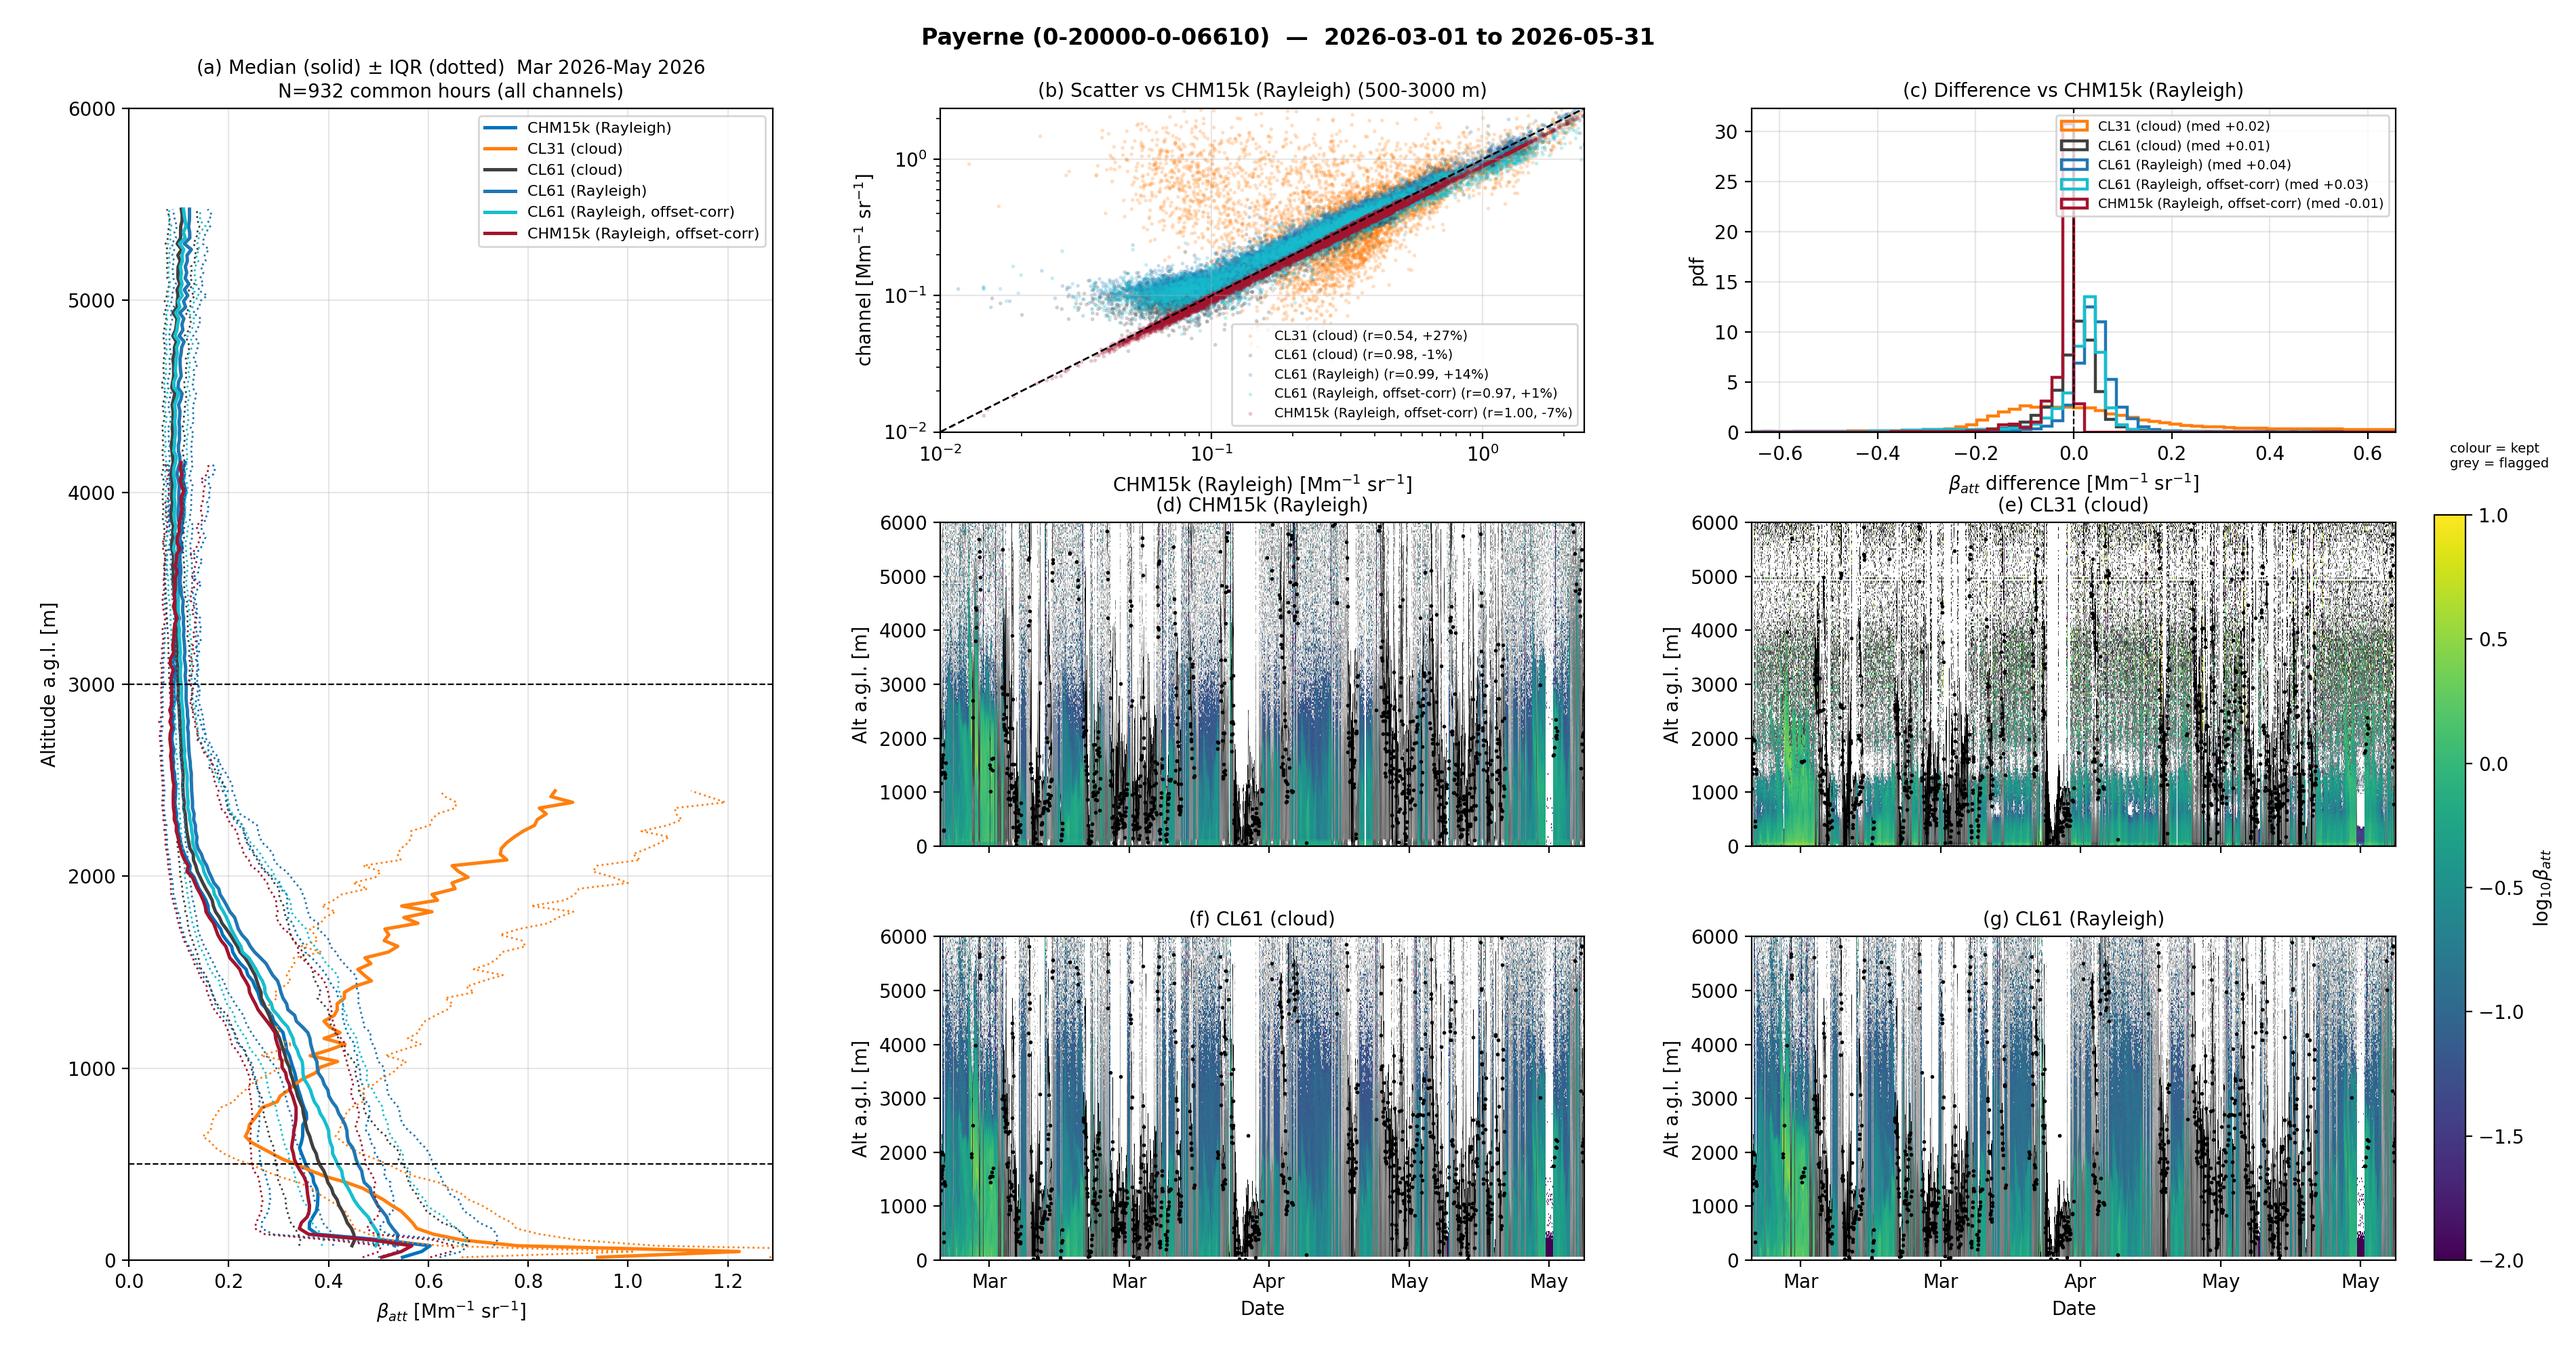
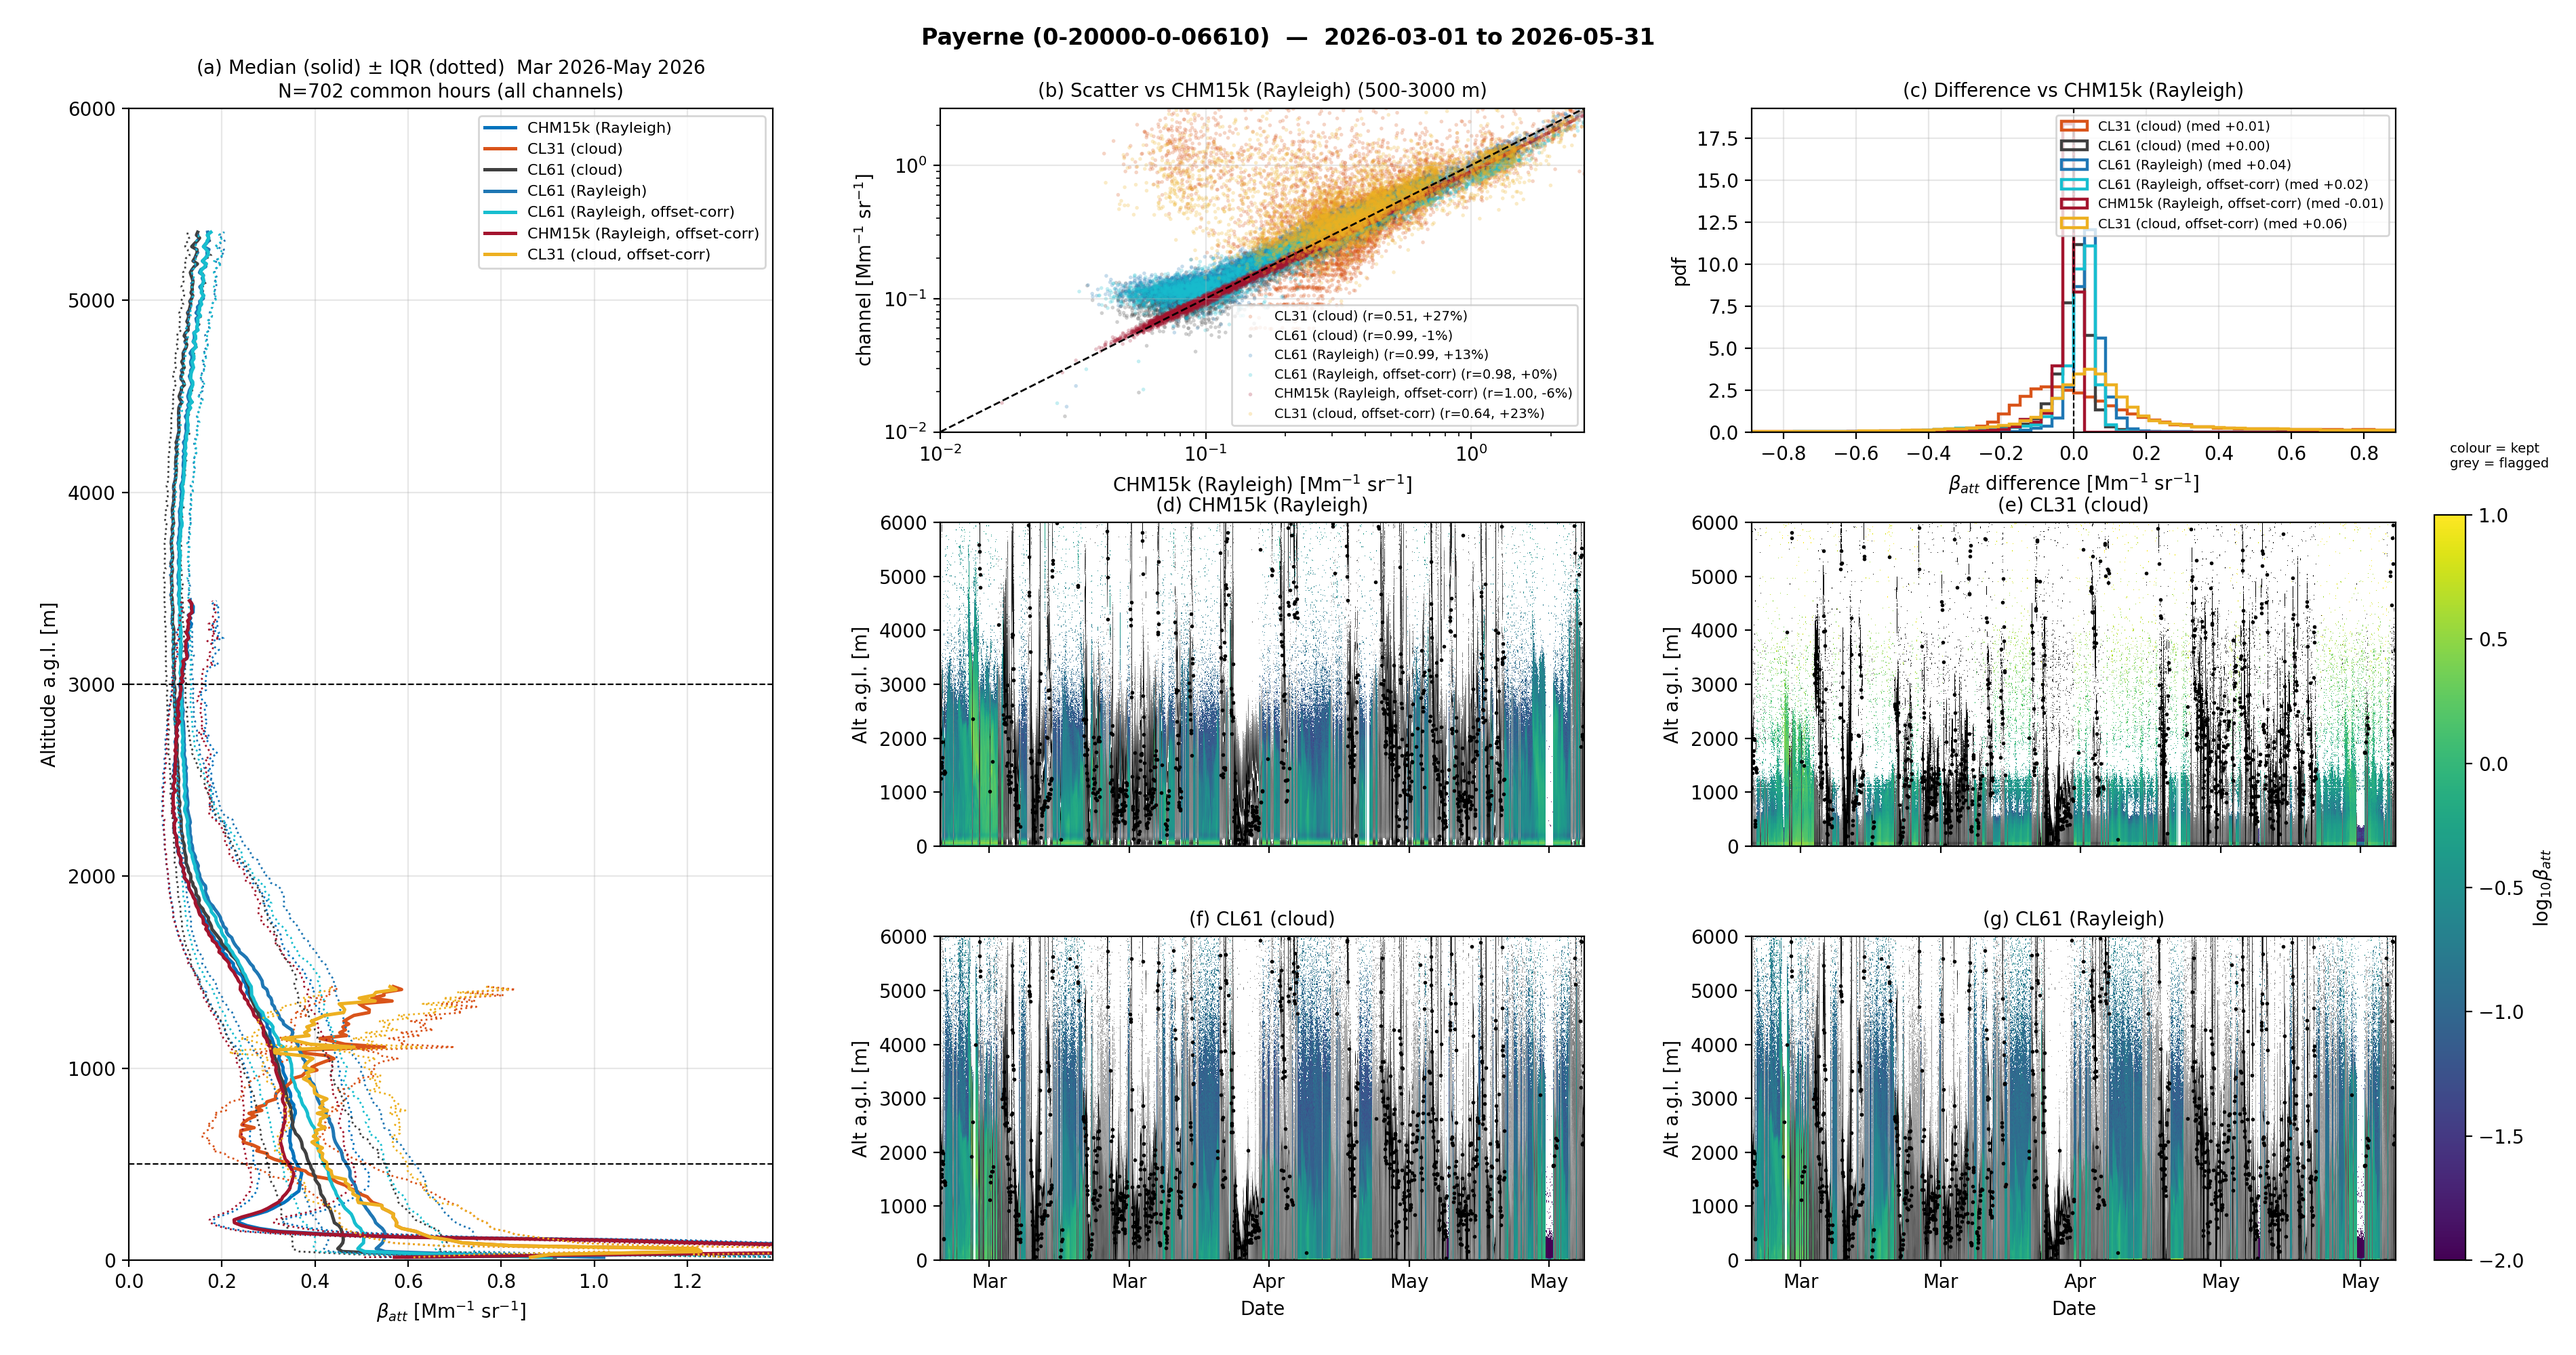
intercompare: L1-only Payerne (operational calout), offset corrections on L1 rcs_0
Per the requirement to use L1 only and match the operational dashboard / balfrin
reprocessing (never L2 -- the CL31 +2100% blow-up was the L2-vs-L1 rcs_0 unit
mismatch, L2 = 0.0107 x L1):
- Payerne dataLevel="L1" -> read_l1 + load_calout_kalman (the operational calout
  Kalman C_L; verified ratio 1.000 vs the calib_benchmark series, so the recalibrated
  offset-corr constants are on the same scale).
- process(): L1 path now uses calib_key -> load_calib_series for the offset-corr
  Rayleigh channels (else the native calout); generic per-channel b_dark(z) subtraction
  from L1 rcs_0 with a units scale (CL61 1e-6 Mm->SI; CHM15k & CL31 1.0).
- All three offset corrections wired on L1: CL61 (Rayleigh) +12.6%->+0.2%,
  CHM15k (Rayleigh) offset-corr -6.3% (moves off the anchor, as before), CL31 (cloud)
  offset-corr: the two-resonance ringing removal IMPROVES the correlation r 0.514->0.642
  and reduces the bias +27.0%->+22.6% (the ripple was a systematic range-pattern
  decorrelating the CL31; the residual is its low-SNR/other limits). N ~2x (native L1).

diff --git a/validation/paper/run_paper_validation.py b/validation/paper/run_paper_validation.py
@@ -32,7 +32,7 @@ SITE_NAME = {"payerne": "Payerne", "amsterdam": "Amsterdam", "uccle": "Uccle", "
              "lindenberg": "Lindenberg", "aosta": "Aosta", "camborne": "Camborne", "earlinet": ""}
 # station -> (referenceChannel, lambda_target, MATLAB R file, molaer label, WIGOS for title)
 STATIONS = {
-    "payerne":   dict(ref=0, target=1064.0, mat="R_payerne.mat",    molaer=None, wmo="0-20000-0-06610"),
+    "payerne":   dict(ref=0, target=1064.0, mat="R_payerne.mat",    molaer=None, wmo="0-20000-0-06610", dataLevel="L1"),
     "amsterdam": dict(ref=0, target=1064.0, mat="R_amsterdam.mat",  molaer=None, wmo="0-20000-0-06240"),
     "uccle":     dict(ref=0, target=910.0,  mat="R_cl51_06447.mat", molaer=None, wmo="0-20000-0-06447"),
     "sirta":     dict(ref=0, target=1064.0, mat="R_sirta.mat",      molaer="Mini-MPL (Rayleigh)", wmo="0-250-1001-07151"),
@@ -54,17 +54,28 @@ def run_station(name):
             d["wavelengthModel"] = "molaer"
         chans.append(d)
     if name == "payerne":
-        # second CL61 Rayleigh entry: constants recalibrated after removing the hood-measured
-        # dark offset (cl61_rayleigh_investigation.md 1c) — shown alongside the native series
+        _D = "C:/DATA/Projects/202606_E-PROFILE_calibration/figs_paper_validation/paper_python/"
+        # Offset-corrected channels, ALL applied on the L1 rcs_0 (dataLevel=L1, operational calout):
+        # the physical-model b_dark(z) is subtracted from L1 rcs_0 and, for the Rayleigh channels, the
+        # recalibrated constant (calib_key, same scale as the calout) is used.
+        # CL61 Rayleigh — AC-coupling undershoot; b_phys in Mm^-1 sr^-1 -> 1e-6 to SI rcs_0.
         chans.append(dict(wmo="0-20000-0-06610", ident="C", calib="rayleigh",
                           label="CL61 (Rayleigh, offset-corr)", itype="CL61",
-                          key="0-20000-0-06610_C_rayleigh_offsetcorr"))
-        # CHM15k Rayleigh recalibrated after removing its (photon-counting over-subtraction) hood
-        # offset — to test whether the correction improves the multi-instrument agreement
-        # (cl61_chm15k_offset_correction.md). NB the CHM15k offset is within its calibration scatter.
+                          key="0-20000-0-06610_C_rayleigh_offsetcorr",
+                          calib_key="0-20000-0-06610_C_rayleigh_offsetcorr",
+                          bdark=_D + "cl61_b_dark.npz", bdark_scale=1e-6))
+        # CHM15k Rayleigh — over-subtraction relaxation; b_phys already in rcs_0 (counts/s.m^2).
         chans.append(dict(wmo="0-20000-0-06610", ident="A", calib="rayleigh",
                           label="CHM15k (Rayleigh, offset-corr)", itype="CHM15k",
-                          key="0-20000-0-06610_A_rayleigh_offsetcorr"))
+                          key="0-20000-0-06610_A_rayleigh_offsetcorr",
+                          calib_key="0-20000-0-06610_A_rayleigh_offsetcorr",
+                          bdark=_D + "chm15k_b_dark.npz", bdark_scale=1.0))
+        # CL31 cloud — two-resonance physical model subtracted from rcs_0; SAME (offset-immune) cloud
+        # calout constant (no calib_key), only the profile changes. b_phys already in rcs_0 (V.m^2).
+        chans.append(dict(wmo="0-20000-0-06610", ident="B", calib="cloud",
+                          label="CL31 (cloud, offset-corr)", itype="CL31",
+                          key="0-20000-0-06610_B_cloud",
+                          bdark=_D + "cl31_b_dark.npz", bdark_scale=1.0))
     cfg = dict(wmo=sc["wmo"], start=st["start"], end=st["end"], referenceChannel=sc["ref"],
                channels=chans, lambda_target=sc["target"], alpha=1.0, zMin=500, zMax=3000,
                calibLevel="L1")   # native L1 (binned, eprof_v2 + fixed cloud); falls back to L2 where no L1

diff --git a/validation/paper/intercompare.py b/validation/paper/intercompare.py
@@ -483,12 +483,26 @@ def process(cfg):
         if l2 is None:
             chans.append(None); continue
         beta = l2["beta"].copy()
+        # optional per-channel hood-offset removal: subtract the measured b_dark(z) from L1 rcs_0
+        # (physical model P^bgi x z^2) BEFORE the calibration scaling. Used by the CL61/CHM15k/CL31
+        # offset-corr channels. bdark_scale converts the stored b_phys units to the rcs_0 units
+        # (CL61: 1e-6 Mm->SI; CHM15k & CL31: 1.0, already rcs_0 units).
+        if ch.get("bdark") is not None:
+            _bd = np.load(ch["bdark"])
+            _ragl = l2["alt"] - l2.get("station_alt", 0.0)
+            _sc = ch.get("bdark_scale", 1.0)
+            beta = beta - _sc * np.interp(_ragl, _bd["rng"], _bd["b_phys"], left=0.0, right=0.0)[None, :]
         if level_l1:
-            # APPLY the CSCS calibration to the raw signal: beta_att [Mm^-1 sr^-1] = rcs_0 / C_L * 1e6,
-            # C_L = the calout Kalman lidar constant (same physical constant for Rayleigh and cloud).
-            cal = load_calout_kalman(ch["wmo"], ch["ident"], ch["calib"]) if ch["calib"] != "none" else None
+            # APPLY the calibration to the L1 raw signal: beta_att [Mm^-1 sr^-1] = rcs_0 / C_L * 1e6.
+            # Native channels use the OPERATIONAL calout Kalman C_L (same as the dashboard/balfrin);
+            # offset-corr Rayleigh channels use their recalibrated series via calib_key (same scale,
+            # verified ratio 1.000). Both methods store C_L (a true lidar constant).
+            if ch.get("calib_key"):
+                cal = load_calib_series(ch["calib_key"], "L1")
+            else:
+                cal = load_calout_kalman(ch["wmo"], ch["ident"], ch["calib"]) if ch["calib"] != "none" else None
             if ch["calib"] != "none" and cal is None:
-                print(f"    [skip] {ch['label']}: no calout Kalman ({ch['wmo']}_{ch['ident']} {ch['calib']})")
+                print(f"    [skip] {ch['label']}: no calibration ({ch.get('calib_key') or ch['wmo']+'_'+ch['ident']+' '+ch['calib']})")
                 chans.append(None); continue
             if cal is not None:
                 ck = interp_calib(cal[0], cal[1], l2["time"])
